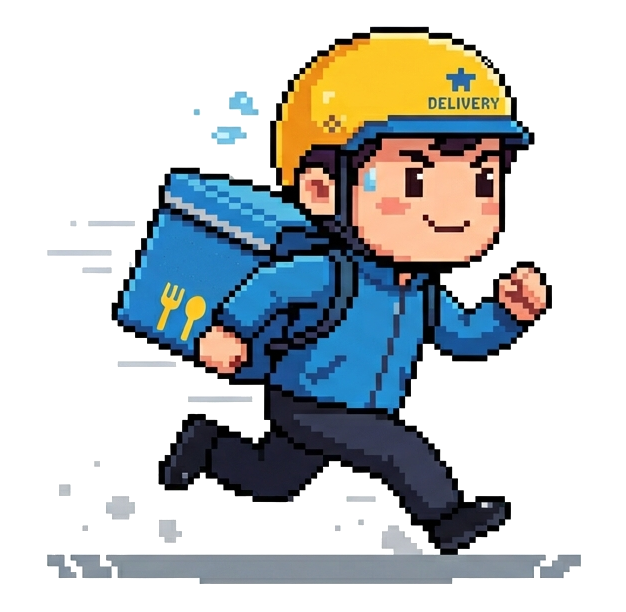
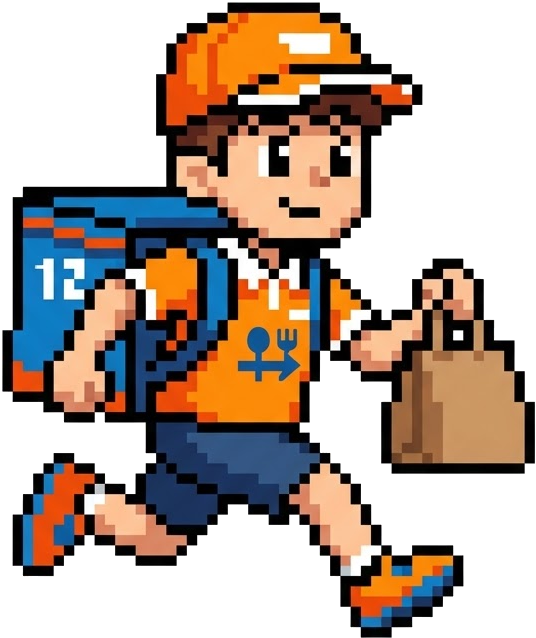
update: new player image and size

diff --git a/main.cpp b/main.cpp
@@ -24,7 +24,7 @@ int main() {
 
     // 你可以根据小人图片在屏幕上的实际视觉比例，任意调整这两个长宽数值
     float spriteWidth = 80.0f;
-    float spriteHeight = 80.0f;
+    float spriteHeight = 96.0f;
 
     // 用来记录小人当前的左右朝向（1.0f 代表朝右，-1.0f 代表朝左）
     float playerFacing = 1.0f;
